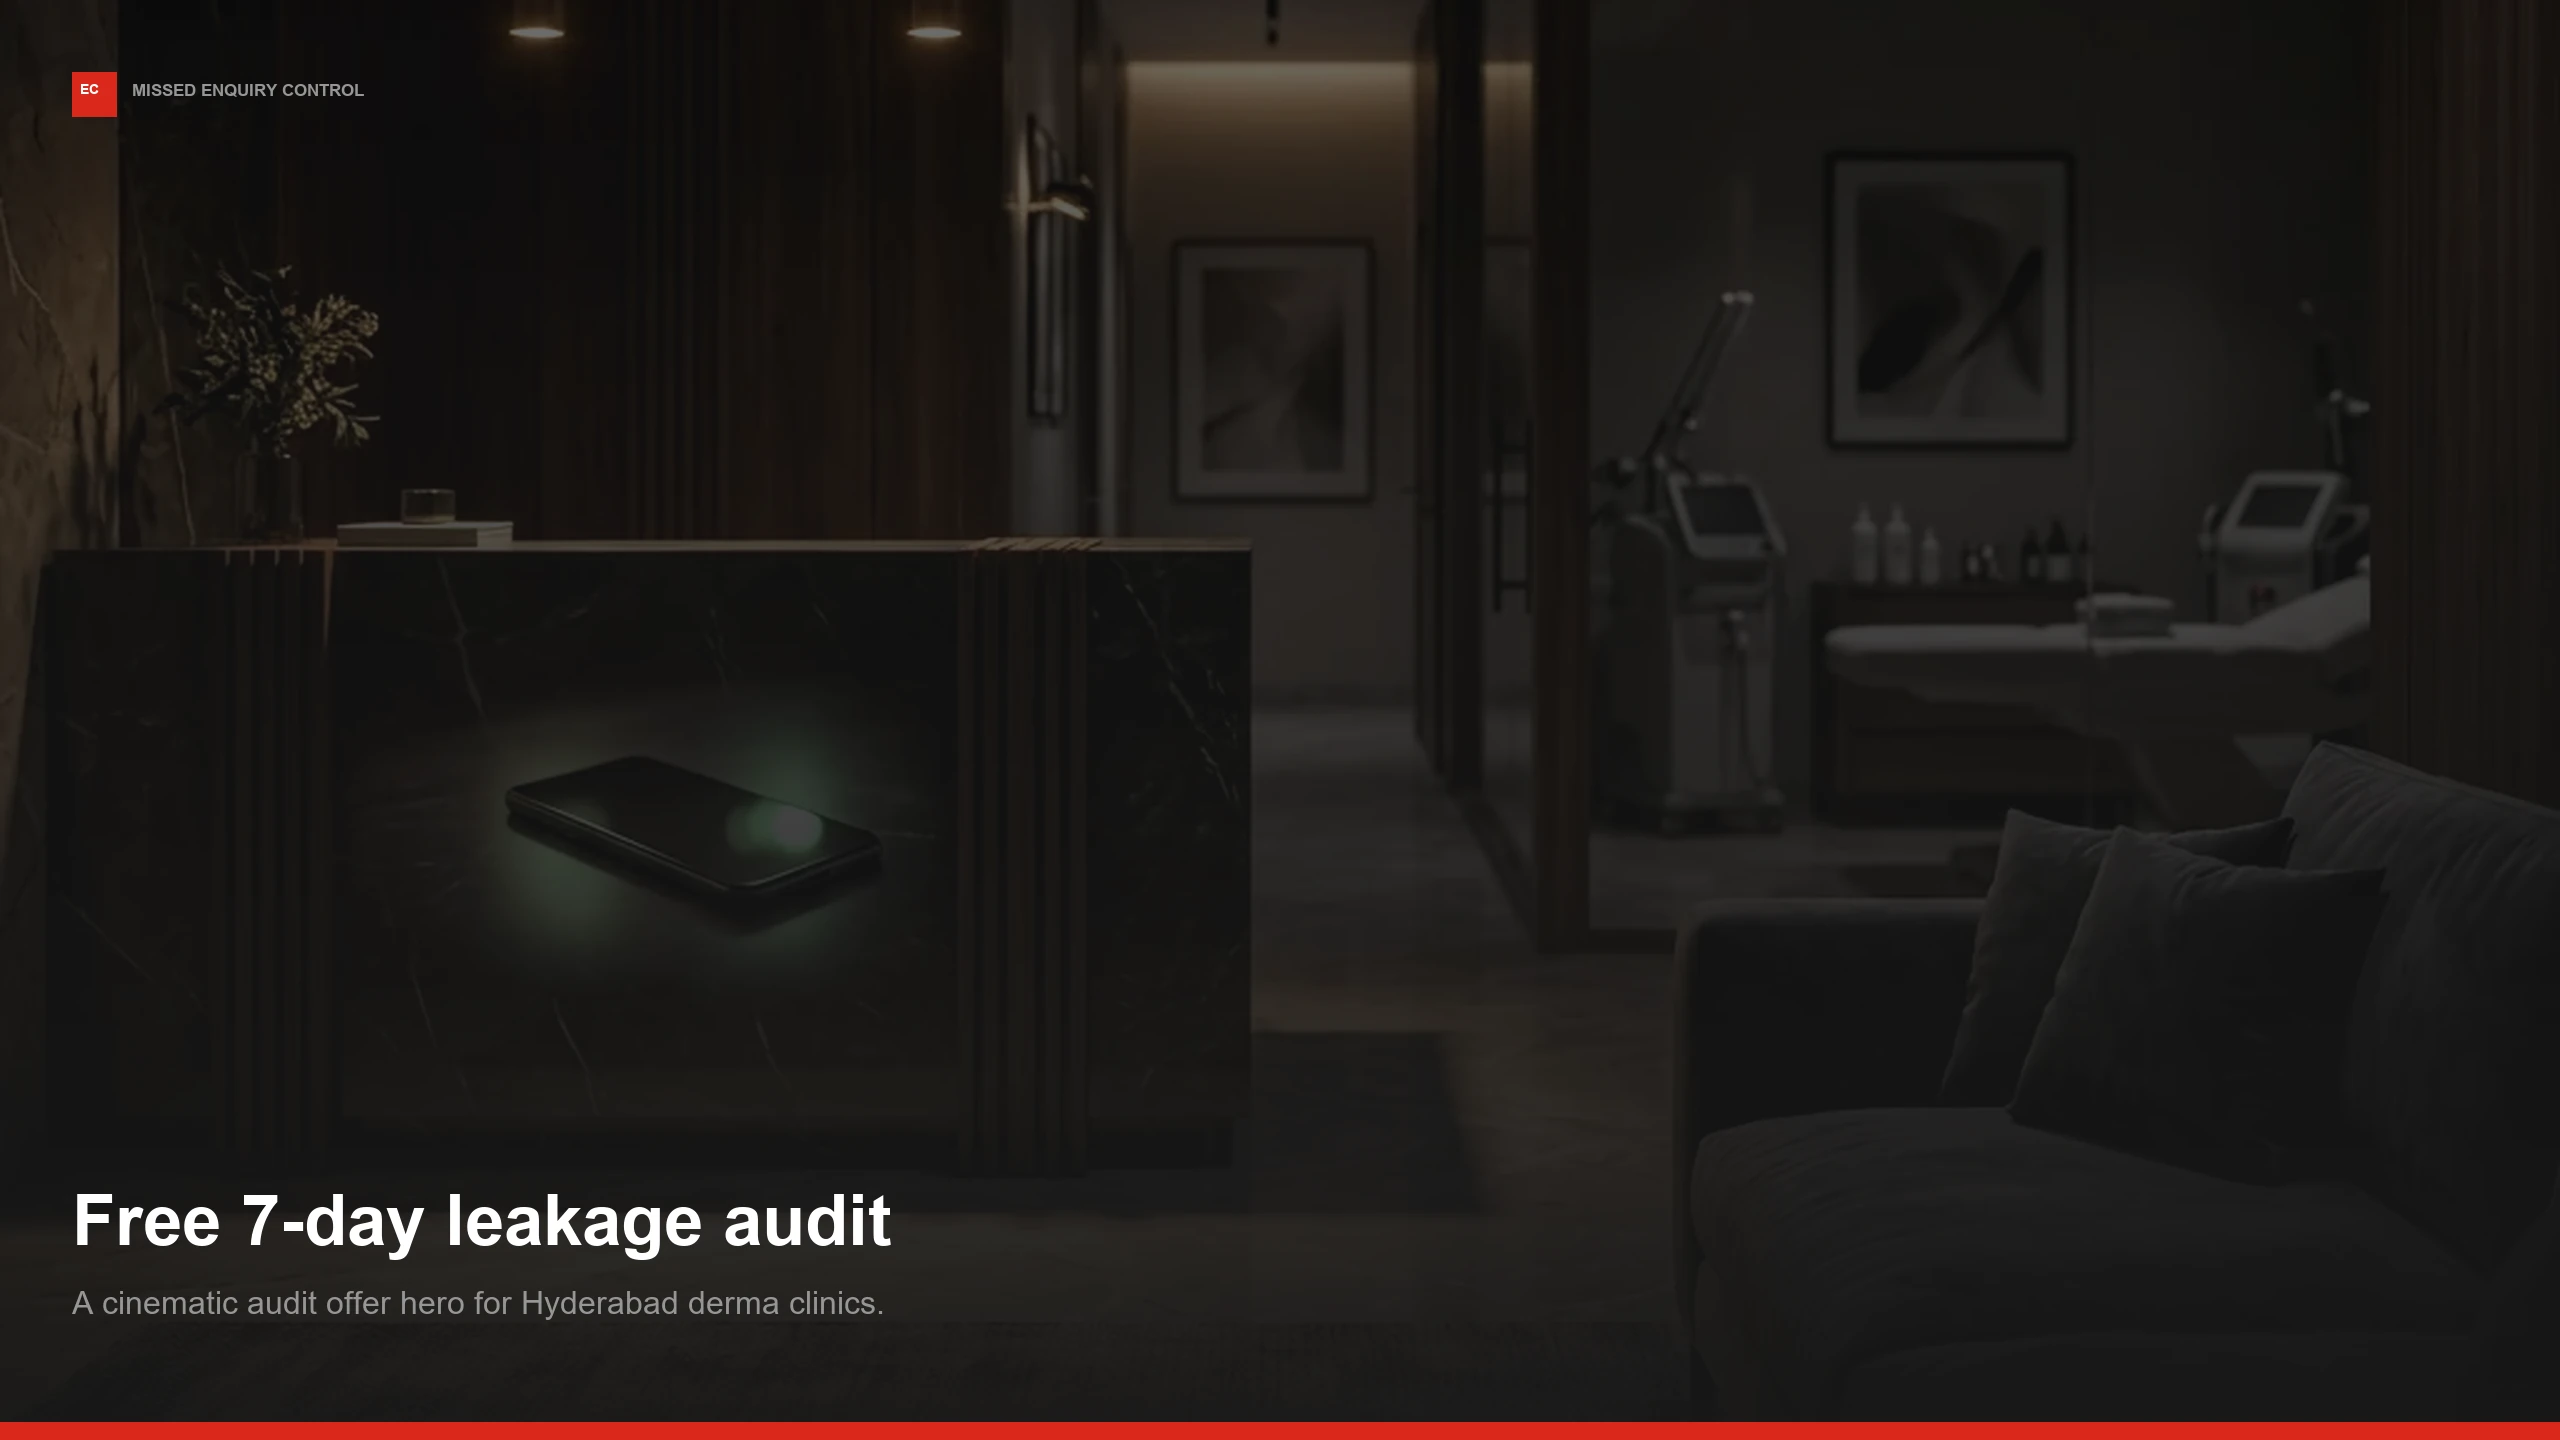
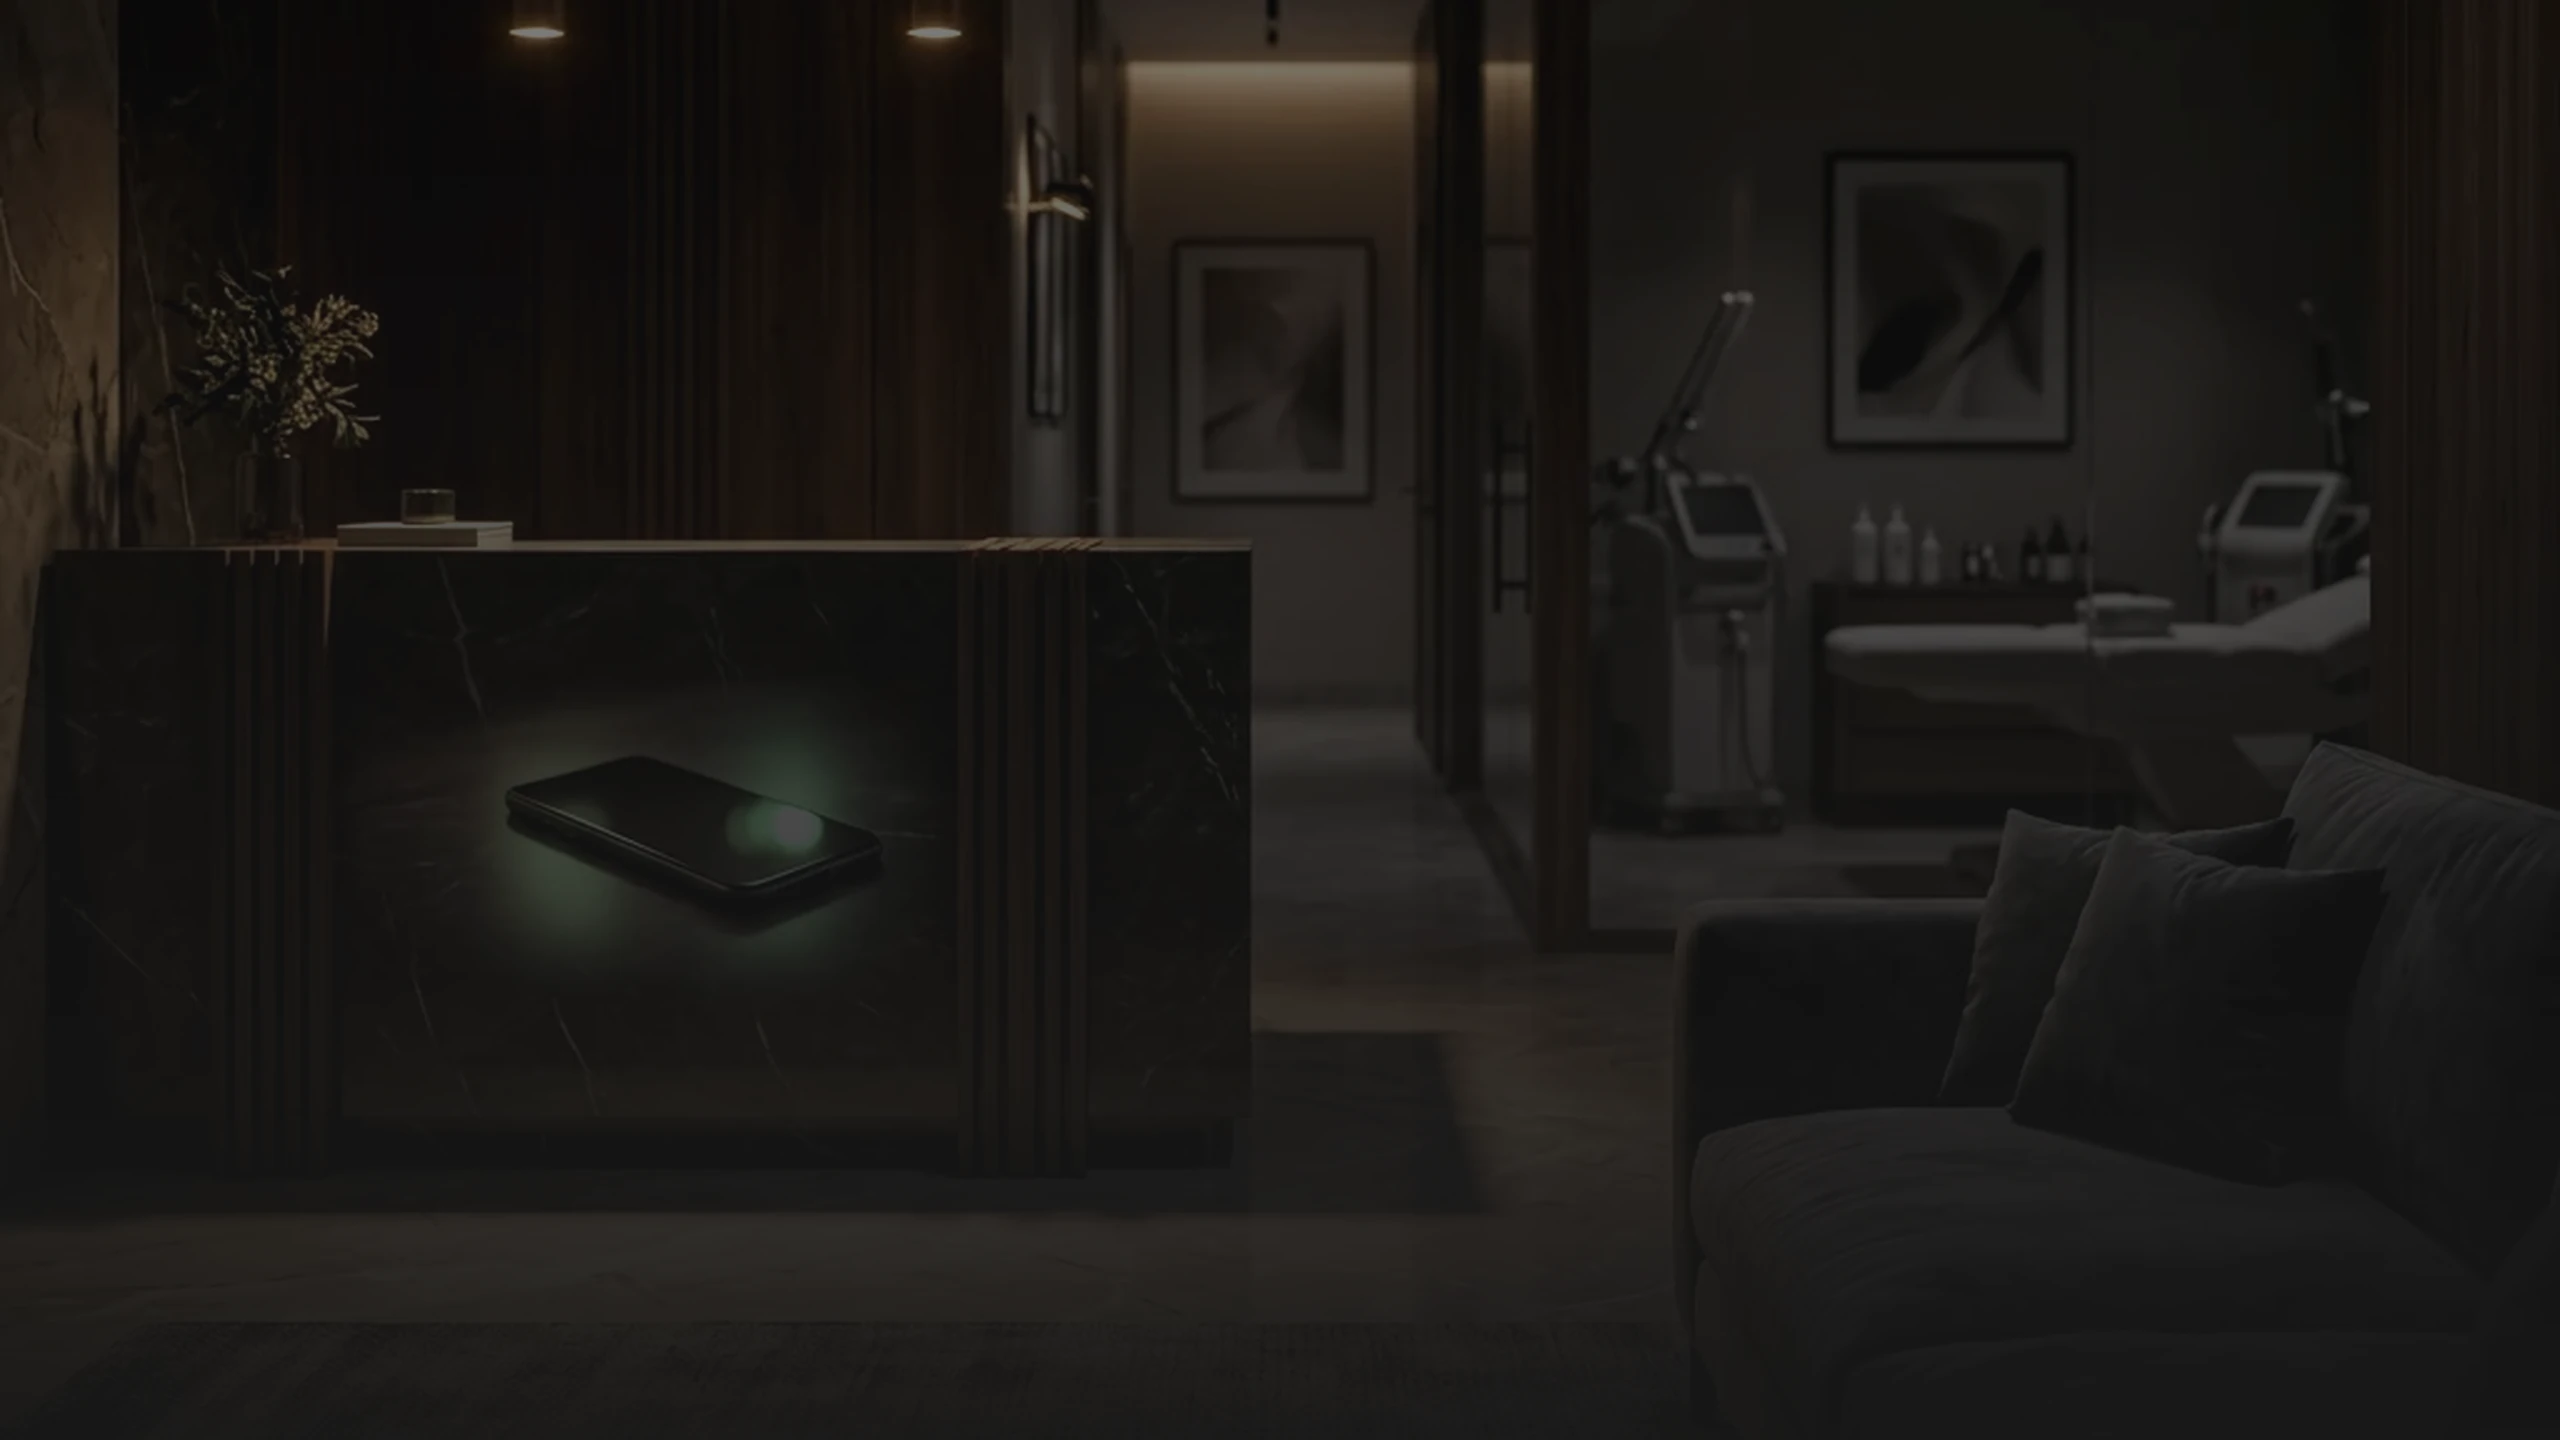
Remove ghost audit text from CTA background

Changed region(s): [[0.0, 0.9688, 1.0, 1.0], [0.0312, 0.8125, 0.3438, 0.9062], [0.0312, 0.0312, 0.0625, 0.0938]]

diff --git a/index.html b/index.html
@@ -357,7 +357,7 @@
               <a href="audit.html" class="button-primary">Start pilot</a>
             </div>
             <div class="pricing-visual" data-reveal data-reveal-delay="1">
-              <img src="assets/web/hero/ec-hero-audit-offer.webp" alt="" width="2560" height="1440"
+              <img src="assets/web/features/ec-feature-owner-digest.webp" alt="" width="1600" height="1200"
                 loading="lazy" />
             </div>
           </div>
@@ -401,10 +401,7 @@
       </section>
     </div>
 
-    <section class="cta-band-dark cta-band-visual" id="audit" aria-labelledby="audit-title">
-      <div class="cta-band-bg" aria-hidden="true">
-        <img src="assets/web/hero/ec-hero-audit-offer.webp" alt="" width="2560" height="1440" loading="lazy" />
-      </div>
+    <section class="cta-band-dark" id="audit" aria-labelledby="audit-title">
       <div class="container">
         <h2 id="audit-title" data-reveal>Free 7-day leakage audit</h2>
         <p data-reveal data-reveal-delay="1">

diff --git a/audit.html b/audit.html
@@ -10,7 +10,7 @@
   <meta property="og:description" content="Three slots this month. Jubilee Hills to Kukatpally." />
   <meta property="og:url" content="https://prasanthkuna.github.io/missed-enquiry-control/audit.html" />
   <meta property="og:image"
-    content="https://prasanthkuna.github.io/missed-enquiry-control/assets/web/hero/ec-hero-audit-offer.webp" />
+    content="https://prasanthkuna.github.io/missed-enquiry-control/assets/web/social-meta/ec-social-og-share.jpg" />
   <link rel="canonical" href="https://prasanthkuna.github.io/missed-enquiry-control/audit.html" />
   <title>Free 7-Day Audit · Missed Enquiry Control</title>
   <link rel="icon" type="image/png" sizes="512x512" href="assets/brand/ec-brand-favicon-512.png" />
@@ -65,7 +65,7 @@
   <main>
     <section class="page-hero-compact" aria-labelledby="page-title">
       <div class="hero-photo">
-        <img src="assets/web/hero/ec-hero-audit-offer.webp" alt="" width="2560" height="1440" fetchpriority="high" />
+        <img src="assets/web/bands/ec-band-clinic-corridor.webp" alt="" width="2560" height="900" fetchpriority="high" />
       </div>
       <div class="hero-content container">
         <p class="breadcrumb"><a href="index.html">Home</a> · Audit</p>